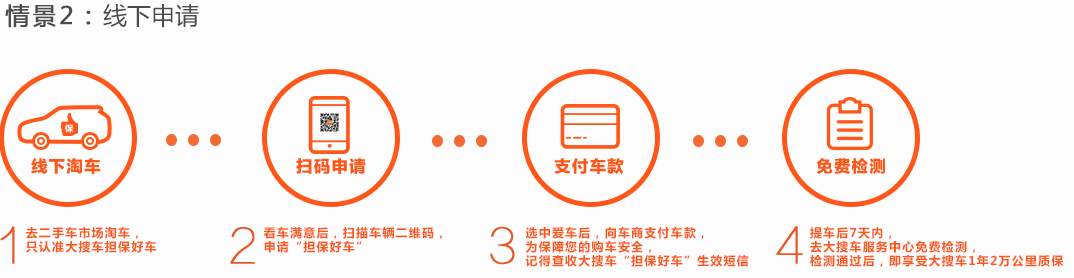
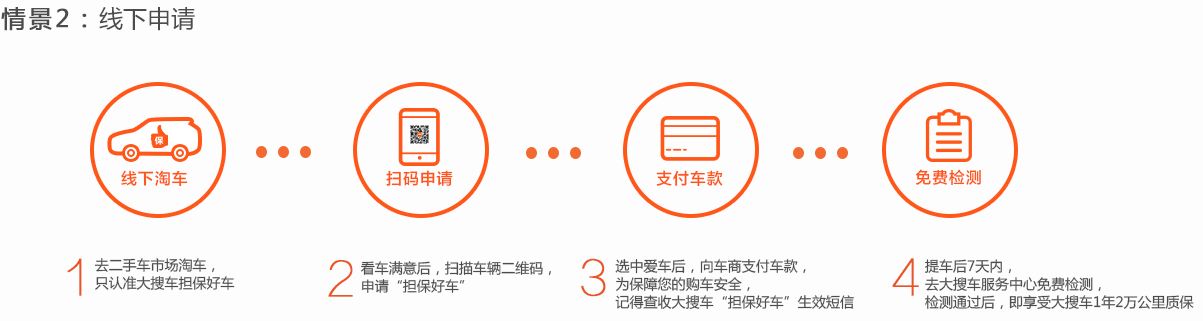
danbao

diff --git a/assets/css/auth-shop/danbao.less b/assets/css/auth-shop/danbao.less
@@ -61,12 +61,12 @@
         margin-top: 100px;
         .xianshang{
           background: url(../../images/danbao/danbao5.png) no-repeat center;
-          height: 286px;
+          height: 384px;
         }
         .xianxia{
           background: url(../../images/danbao/danbao6.png) no-repeat center;
-          height: 278px;
-          margin-top: 150px;
+          height: 321px;
+          margin-top: 70px;
         }
       }
     }
